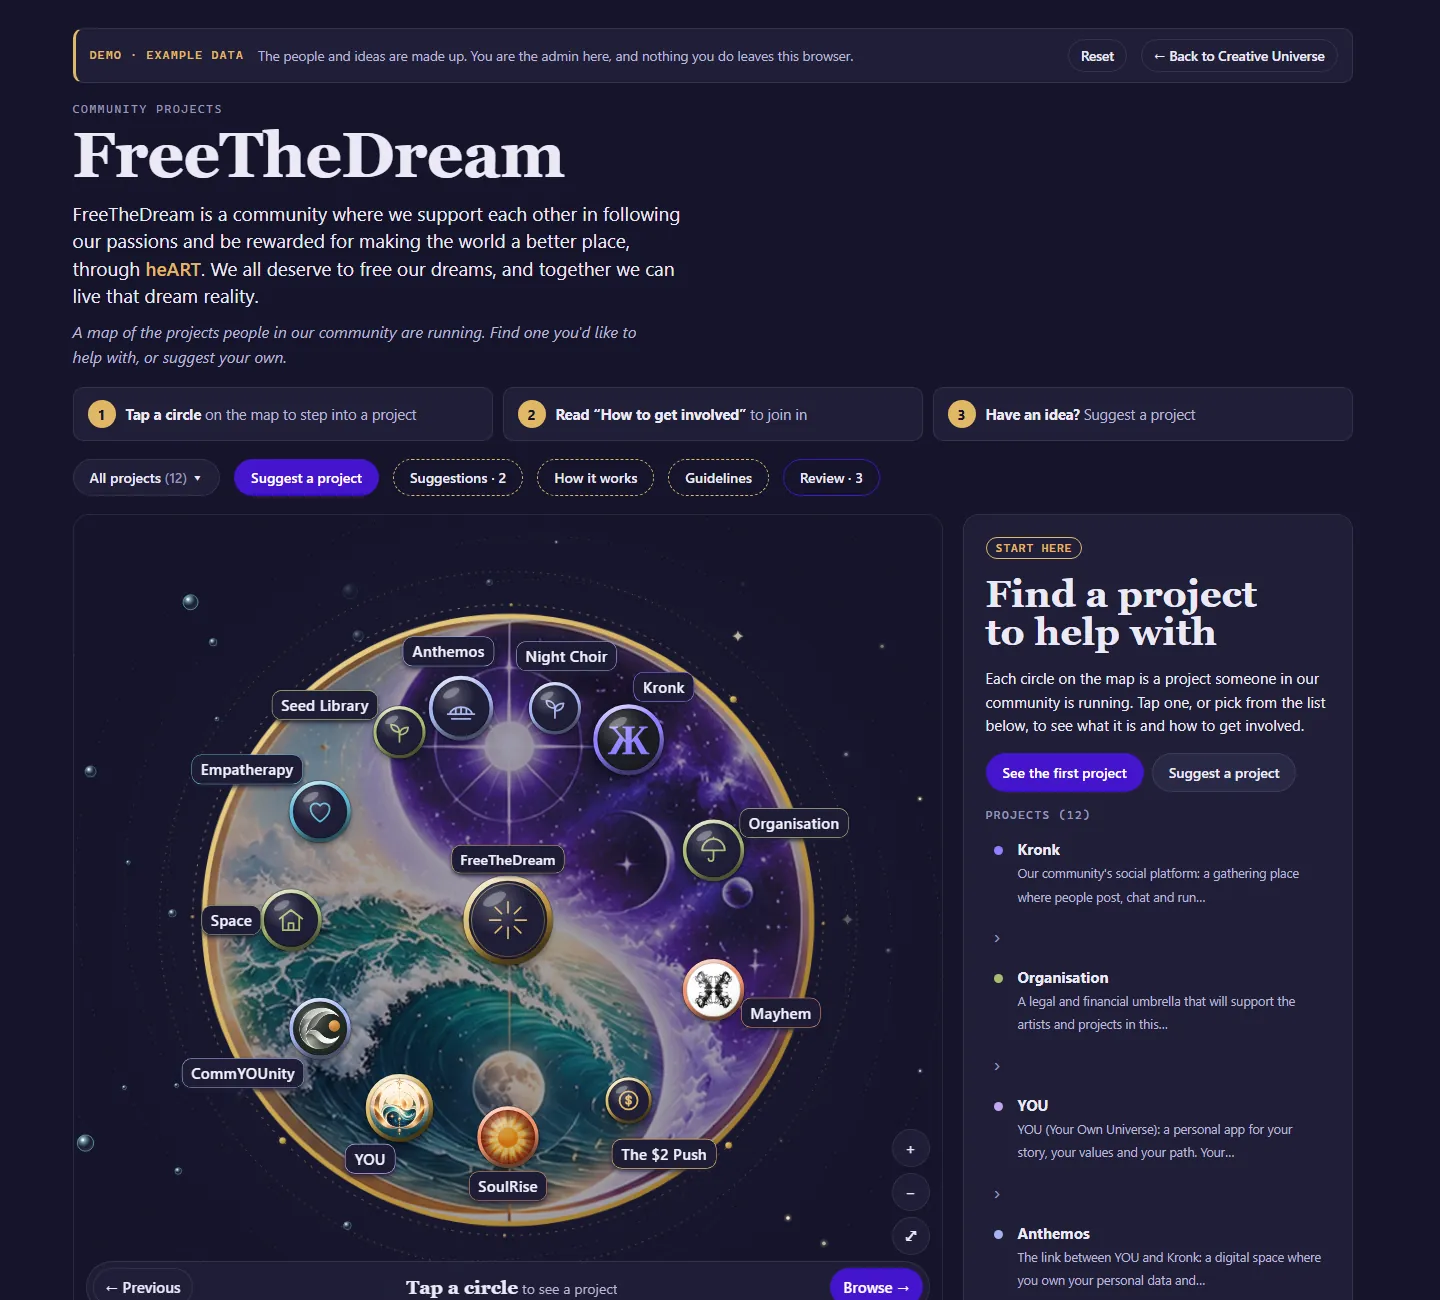
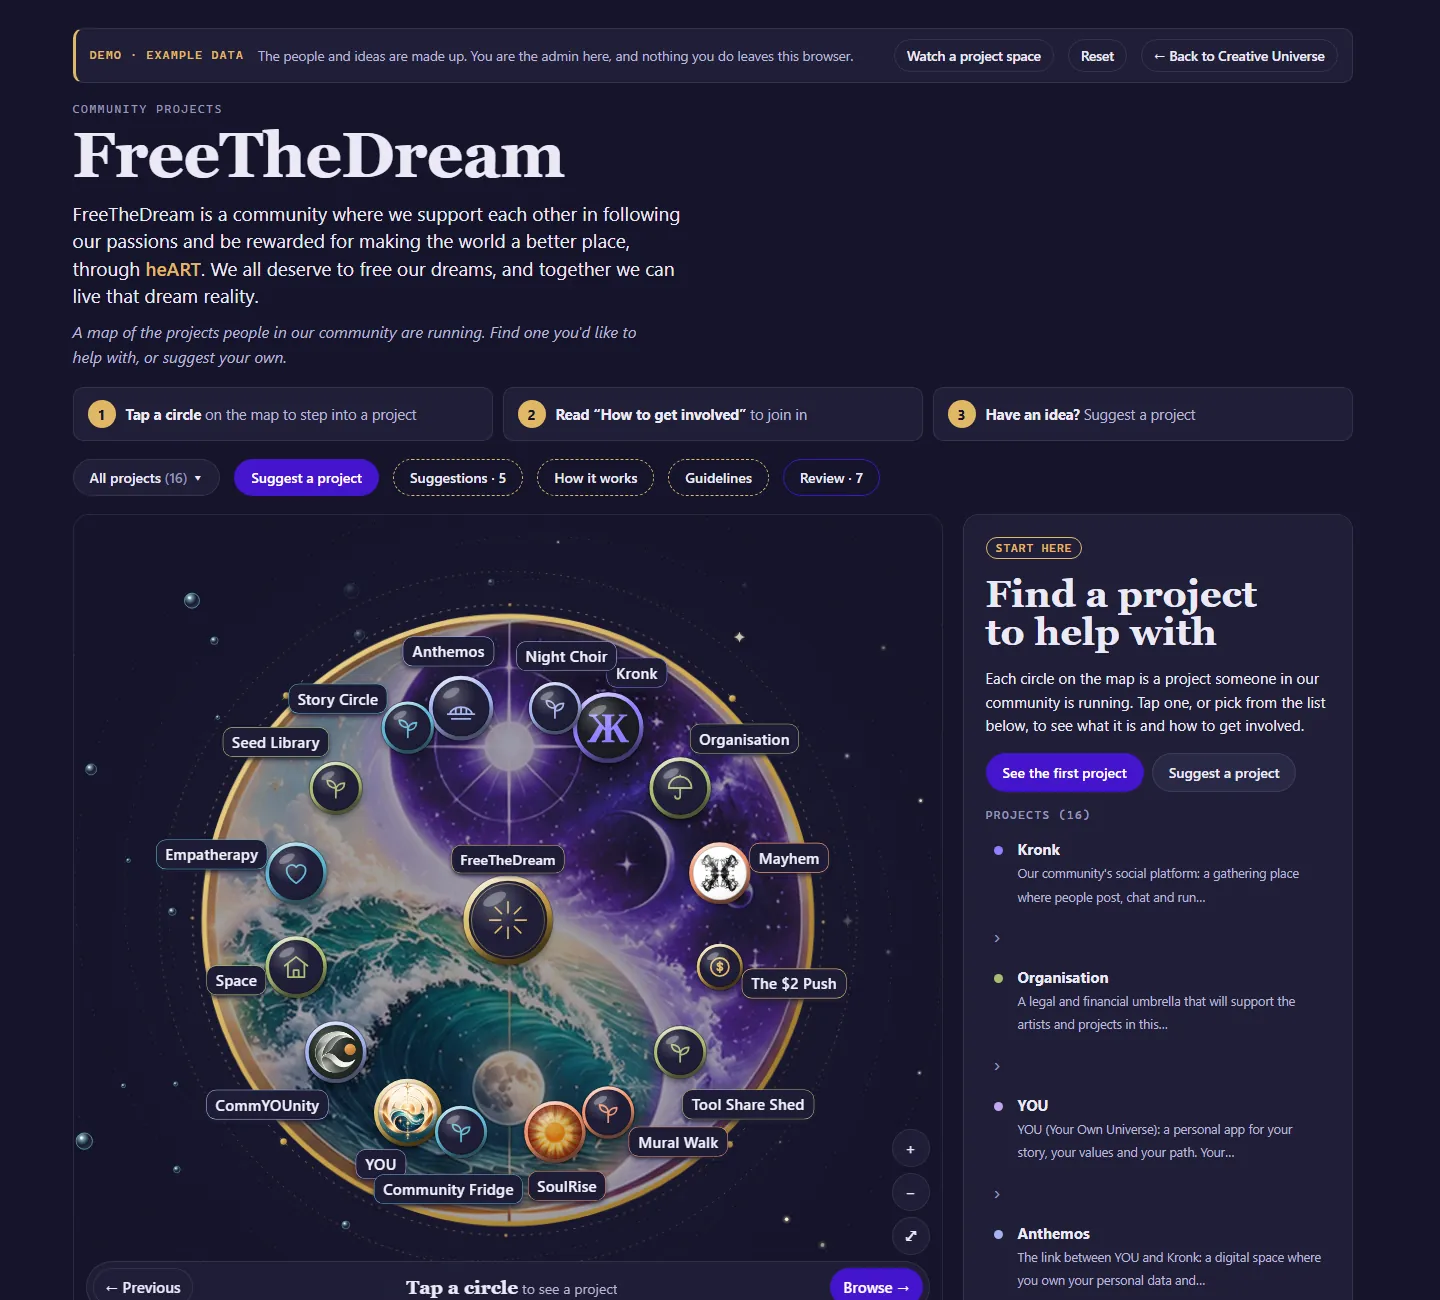
FreeTheDream: the richer demo, five screenshots and its new card line
- The demo is now dist/demo.html from free-the-dream-map's
  demo-richer-seed branch, commit 0120a2c (PR #4, not merged yet),
  copied unchanged. It writes only freethedream-demo-v2 and
  freethedream-demo-tour-seen, and Reset removes both. That was checked
  in the browser, and the demo, including "Watch a project space", made
  no outside requests.
- The preview now has five screenshots: the map, suggestions, review, a
  project page and the project space preview.
- New card line from the FreeTheDream session, for Cassidy to review.

Changed region(s): [[0.125, 0.4923, 0.5938, 0.9538], [0.625, 0.0308, 0.7188, 0.0615]]

diff --git a/public/demos/freethedream/index.html b/public/demos/freethedream/index.html
@@ -651,7 +651,7 @@ function logoOf(pid) {
 }
 // The demo build sets FTD_CONFIG.backend = "demo": made-up people and projects, kept under their own key.
 const DEMO_CFG = window.FTD_CONFIG && window.FTD_CONFIG.backend === "demo" ? window.FTD_CONFIG : null;
-const LS_KEY = DEMO_CFG ? "freethedream-demo-v1" : "freethedream-basics-v1";
+const LS_KEY = DEMO_CFG ? "freethedream-demo-v2" : "freethedream-basics-v1";
 const lsLoad = () => { try { return JSON.parse(localStorage.getItem(LS_KEY) || "null"); } catch { return null; } };
 const lsSave = () => { try { localStorage.setItem(LS_KEY, JSON.stringify(S)); return true; } catch { return false; } };
 const nameOf = by => by === me ? "you" : by === "founding" ? "the founding team" : (names[by] || "Someone");
@@ -2122,7 +2122,7 @@ const TOUR = [
   { sel: "#b-guide", title: "Guidelines", text: "What can go on the map. Personal goals belong in YOU, and posts belong on the Kronk feed." }
 ];
 let tourStep = -1;
-const TOUR_SEEN = "freethedream-tour-seen";
+const TOUR_SEEN = DEMO_CFG ? "freethedream-demo-tour-seen" : "freethedream-tour-seen";
 function startTour() { tourStep = 0; document.getElementById("tour").hidden = false; showTourStep(); markTabs(); }
 function endTour() {
   tourStep = -1; document.getElementById("tour").hidden = true; markTabs();
@@ -2355,32 +2355,70 @@ function connectLocal() {
 }
 // Demo build: like the standalone copy (you are the admin, nothing leaves the browser), but it starts
 // with made-up people and projects so visitors see the whole process. Reset puts it back.
-const DEMO_NAMES = { ari: "Ari", sam: "Sam", jo: "Jo", kai: "Kai", noor: "Noor" };
+const DEMO_NAMES = { ari: "Ari", sam: "Sam", jo: "Jo", kai: "Kai", noor: "Noor", priya: "Priya", tomas: "Tomás", lena: "Lena", malik: "Malik", rosa: "Rosa" };
+// Everyone and everything here is made up. Ari, Sam, Jo and Kai are the same people as in the project-space preview.
 function demoSeed() {
-  const now = Date.now(), day = 86400000, at = d => now - d * day;
+  const now = Date.now(), day = 86400000, at = d => now - Math.round(d * day);
   const founding = ["kronk", "org", "you", "anth", "comm", "mayhem", "soul", "space", "emp", "fund"].map((k, i) => {
     const T = TEMPLATES[k];
-    return { id: k, tpl: k, name: T.name, what: "", side: T.side, el: ELS.includes(T.el) ? T.el : "air", links: [], by: "founding", at: at(60 - i), approvedAt: at(60 - i) };
+    return { id: k, tpl: k, name: T.name, what: "", side: T.side, el: ELS.includes(T.el) ? T.el : "air", links: [], by: "founding", at: at(90 - i), approvedAt: at(90 - i) };
   });
-  const library = { id: "d1", name: "Seed Library", what: "A shelf of local seeds anyone can borrow, grow and bring back at the end of the season.", community: "Anyone can borrow seeds and give some back. Growers swap tips at monthly meetups.", side: "inner", el: "earth", links: ["space"], seed: null, at: at(20) };
-  const choir = { id: "d1", name: "Night Choir", what: "An open choir that sings under the stars once a month. No auditions.", community: "Everyone sings. Songs are taught by ear on the night.", side: "bridge", el: "air", links: ["soul", "mayhem"], seed: null, at: at(14) };
-  const repair = { id: "d1", name: "Repair Café", what: "Bring something broken, fix it together with a volunteer, and learn how.", community: "Volunteers share skills; anyone can bring things to fix.", side: "outer", el: "fire", links: ["space"], seed: null, at: at(3) };
-  const garden = { id: "d1", name: "Rooftop Garden", what: "Turn an empty rooftop into a shared vegetable garden with a rota for watering.", community: "Neighbours share the work and the harvest.", side: "inner", el: "water", links: ["emp"], seed: null, at: at(1) };
-  const approved = founding.concat([
-    { ...library, by: "sam", approvedAt: at(18) },
-    { ...choir, by: "jo", approvedAt: at(12) }
-  ]);
+  const drop = (id, name, side, el, links, ago, what, community) => ({ id, name, what, community, side, el, links, seed: null, at: at(ago) });
+  const D = {
+    sam:   [drop("d1", "Seed Library", "inner", "earth", ["space"], 48, "A shelf of local seeds anyone can borrow, grow and bring back at the end of the season.", "Borrow a packet, save seeds from what you grow, and bring some back. Monthly swaps at the Space.")],
+    jo:    [drop("d1", "Night Choir", "bridge", "air", ["soul", "mayhem"], 41, "An open choir that sings outdoors once a month after dark. No auditions and no reading music.", "Everyone sings. Songs are taught by ear on the night, and anyone can bring one to teach.")],
+    tomas: [drop("d1", "Tool Share Shed", "outer", "earth", ["space", "sam~d1"], 37, "A lending shed of ladders, drills, saws and garden tools, so nobody has to buy one for a single job.", "Lend a tool you rarely use, borrow what you need, and take a turn opening the shed on Saturdays.")],
+    priya: [drop("d1", "Story Circle", "inner", "water", ["emp", "comm"], 30, "Older neighbours and young people meet every fortnight to tell and record the stories of the area.", "Come to listen, tell a story, or help record and transcribe them.")],
+    rosa:  [drop("d1", "Mural Walk", "outer", "fire", ["mayhem", "kronk", "jo~d1"], 26, "A walking route linking six new murals painted by local artists on walls that owners have offered.", "Offer a wall, paint a section, or lead a walk for visitors."),
+            drop("d2", "Sound Bath in the Park", "inner", "ether", ["emp", "jo~d1"], 4, "A free hour of gongs and singing bowls on the grass on the first Sunday of the month.", "Bring a blanket. Musicians who play bowls or gongs can join the circle.")],
+    malik: [drop("d1", "Community Fridge", "bridge", "water", ["sam~d1", "org"], 21, "A public fridge outside the corner shop where cafés and neighbours leave surplus food for anyone to take.", "Drop off food, take what you need, or join the cleaning and checking rota."),
+            drop("d2", "Learn the cello", "inner", "air", [], 9, "I've always wanted to learn the cello and would love a teacher.", "")],
+    kai:   [drop("d1", "Repair Café", "outer", "fire", ["space", "tomas~d1"], 6, "Bring something broken, fix it together with a volunteer, and learn how it works.", "Volunteers share skills, anyone can bring things to fix, and the Tool Share Shed lends the tools.")],
+    noor:  [drop("d1", "Rooftop Garden", "inner", "water", ["emp", "sam~d1"], 3, "Turn an empty rooftop into a shared vegetable garden with a watering rota.", "Neighbours share the work and the harvest. Seeds come from the Seed Library.")],
+    lena:  [drop("d1", "Bike Kitchen", "outer", "earth", ["tomas~d1", "kai~d1"], 2, "A weekly evening where people learn to fix their own bikes with shared stands and tools.", "Bring your bike, or come to teach. Old bikes are rebuilt and given away.")],
+    ari:   [drop("d1", "Language Exchange Café", "bridge", "air", ["comm", "priya~d1"], 1, "Pairs of neighbours swap an hour of their languages over tea: one half in each language.", "Come with a language to share. No teachers, just conversation.")]
+  };
+  const approvedKeys = { "sam~d1": 46, "jo~d1": 39, "tomas~d1": 35, "priya~d1": 28, "rosa~d1": 24, "malik~d1": 19 };
+  const approved = founding.slice();
+  for (const by in D) D[by].forEach(d => { const k = by + "~" + d.id; if (approvedKeys[k]) approved.push({ ...d, by, approvedAt: at(approvedKeys[k]) }); });
+  const ok = (ago, note = "") => ({ status: "approved", note, at: at(ago), by: "founding" });
+  const decisions = {};
+  for (const k in approvedKeys) decisions[k] = ok(approvedKeys[k]);
+  decisions["malik~d2"] = { status: "declined", note: "A lovely goal, but a personal one. It belongs in YOU, where you can plan your own path.", at: at(8), by: "founding" };
+  decisions["claim:lena:sam~d1"] = ok(33);
+  decisions["claim:noor:priya~d1"] = ok(15);
+  const ed = (ago, o) => ({ ...o, at: at(ago) });
+  const member = (by, extra = {}) => ({ drops: D[by] || [], claims: [], edits: {}, logos: {}, follows: [], ...extra });
   return {
     members: {
-      sam: { drops: [library], claims: [], edits: { "sam~d1": { verb: "Borrow a seed, grow it, bring some back", role: "Keeps food growing locally and puts gardeners in touch with each other.", involve: "Come to the first Saturday swap, or adopt a shelf for a season.", qs: ["Where could a second shelf go?"], at: at(10) } }, logos: {}, follows: ["noor~d1"] },
-      jo: { drops: [choir], claims: [], edits: {}, logos: {}, follows: ["kai~d1"] },
-      kai: { drops: [repair], claims: [], edits: {}, logos: {}, follows: ["noor~d1"] },
-      noor: { drops: [garden], claims: [], edits: {}, logos: {}, follows: ["kai~d1"] },
-      ari: { drops: [], claims: ["mayhem"], edits: {}, logos: {}, follows: ["kai~d1", "noor~d1"] }
+      sam: member("sam", { follows: ["noor~d1", "kai~d1"], edits: { "sam~d1": ed(12, {
+        verb: "Borrow a seed, grow it, bring some back",
+        role: "Keeps food growing locally and puts gardeners in touch with each other.",
+        involve: "Come to the first-Saturday swap at the Space, adopt a shelf for a season, or help label packets.",
+        reflect: "Forty-two packets went out this spring and nineteen came back with saved seed. Tomatoes and beans return best; lettuce hardly ever does.",
+        qs: ["Where could a second shelf go?", "Should we keep a list of who grows what?"] }) } }),
+      lena: member("lena", { claims: ["sam~d1"], follows: ["kai~d1", "rosa~d2"] }),
+      jo: member("jo", { follows: ["rosa~d2", "ari~d1"], edits: { "jo~d1": ed(10, {
+        verb: "Sing together under the night sky",
+        role: "A place where anyone can find their voice, and where poets and performers try new pieces.",
+        involve: "Turn up on the last Friday of the month. Bring a torch and something warm.",
+        qs: ["Could we sing at the Mural Walk opening?"] }) } }),
+      tomas: member("tomas", { follows: ["kai~d1", "lena~d1"], edits: { "tomas~d1": ed(9, {
+        verb: "Borrow it, use it, bring it back",
+        involve: "Lend a tool you rarely use, or take a Saturday shift opening the shed.",
+        qs: ["Do we need a deposit for the big tools?"] }) } }),
+      priya: member("priya", { follows: ["ari~d1"], edits: { "priya~d1": ed(7, {
+        verb: "The stories of the street, told by the people who lived them",
+        reflect: "Mrs Okafor's story about the 1987 flood made the whole room laugh and then go quiet. We now have eleven stories recorded." }) } }),
+      noor: member("noor", { claims: ["priya~d1"], follows: ["sam~d1", "kai~d1"] }),
+      rosa: member("rosa", { follows: ["noor~d1"] }),
+      malik: member("malik", { follows: ["noor~d1", "lena~d1"] }),
+      kai: member("kai", { claims: ["tomas~d1"], follows: ["lena~d1", "noor~d1"] }),
+      ari: member("ari", { claims: ["mayhem"], follows: ["kai~d1", "noor~d1", "rosa~d2"] })
     },
     approved,
-    decisions: { "sam~d1": { status: "approved", note: "", at: at(18), by: "founding" }, "jo~d1": { status: "approved", note: "", at: at(12), by: "founding" } },
-    stewards: { "sam~d1": ["sam"], "jo~d1": ["jo"] },
+    decisions,
+    stewards: { "sam~d1": ["sam", "lena"], "jo~d1": ["jo"], "tomas~d1": ["tomas"], "priya~d1": ["priya", "noor"], "rosa~d1": ["rosa"], "malik~d1": ["malik"] },
     adminEdits: {}, adminLogos: {}
   };
 }
@@ -2394,10 +2432,14 @@ function connectDemo(cfg) {
   bar.innerHTML = `<b>Demo · example data</b><span>The people and ideas are made up. You are the admin here, and nothing you do leaves this browser.</span>`;
   const reset = document.createElement("button");
   reset.type = "button"; reset.textContent = "Reset";
-  reset.onclick = () => { try { localStorage.removeItem(LS_KEY); } catch {} setHash(""); location.reload(); };
+  reset.onclick = () => { try { localStorage.removeItem(LS_KEY); localStorage.removeItem(TOUR_SEEN); } catch {} setHash(""); location.reload(); };
   const back = document.createElement("a");
   back.href = typeof cfg.back === "string" && cfg.back ? cfg.back : "../../#/"; back.textContent = "← Back to Creative Universe";
-  bar.append(reset, back);
+  // The project-space preview (Ari, Sam, Jo and Kai running Mayhem) has no button on the live map; the demo offers it here.
+  const space = document.createElement("button");
+  space.type = "button"; space.textContent = "Watch a project space";
+  space.onclick = () => { startDemo(); document.querySelector(".stage").scrollIntoView({ behavior: reduce ? "auto" : "smooth", block: "start" }); };
+  bar.append(space, reset, back);
   const wrap = document.querySelector(".wrap"); wrap.insertBefore(bar, wrap.firstChild);
   footer(); refresh(); applyHash();
 }

diff --git a/public/demos/README.md b/public/demos/README.md
@@ -8,7 +8,7 @@ Each folder here, `public/demos/<project>/`, holds a **built copy** of a project
 
 ## FreeTheDream
 
-`freethedream/index.html` is `dist/demo.html` from free-the-dream-map (first copied from its PR #3, before that PR was merged).
+`freethedream/index.html` is `dist/demo.html` from free-the-dream-map, branch `demo-richer-seed`, commit `0120a2c` (its PR #4, copied before that PR was merged).
 
 To refresh it:
 
@@ -17,8 +17,8 @@ To refresh it:
 
 What it does:
 
-- It stores the demo map in the visitor's browser under the localStorage key `freethedream-demo-v1`. It also sets `freethedream-tour-seen` once the visitor has seen the tour.
-- Reset clears `freethedream-demo-v1` and reloads the demo.
-- The people and ideas are made up.
+- It writes only two localStorage keys in the visitor's browser: `freethedream-demo-v2` (the demo map) and `freethedream-demo-tour-seen` (set once the visitor has finished the tour).
+- Reset removes both keys and reloads the demo. (Checked in the browser on 9 Nov 2026: after the tour both keys were set, and after Reset localStorage was empty.)
+- The people and ideas are made up. "Watch a project space" plays a step-by-step preview with example people; nothing in it is saved.
 - It makes no network requests. Its links to YOU and Kronk open only when the visitor clicks them.
 - "← Back to Creative Universe" goes to `../../#/`, so the action url keeps its trailing slash: `demos/freethedream/`.
